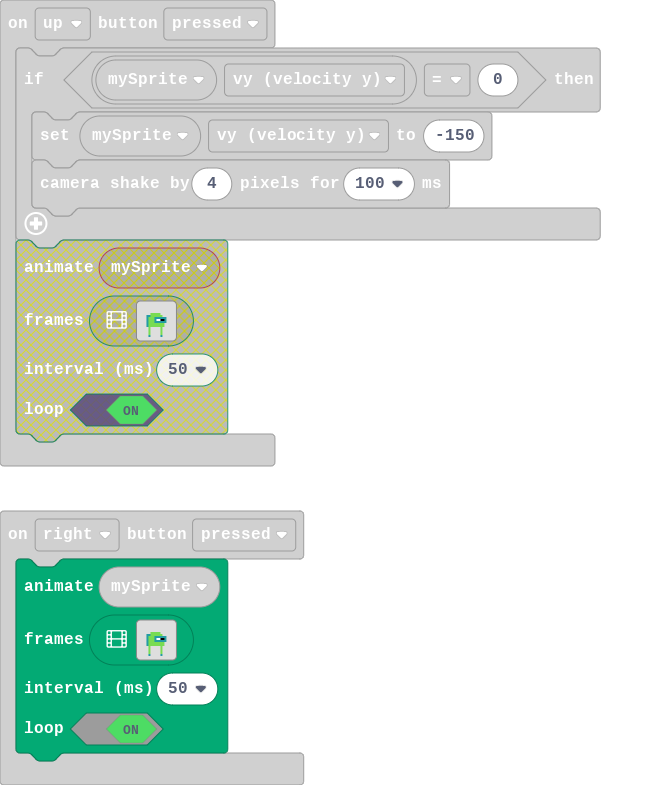
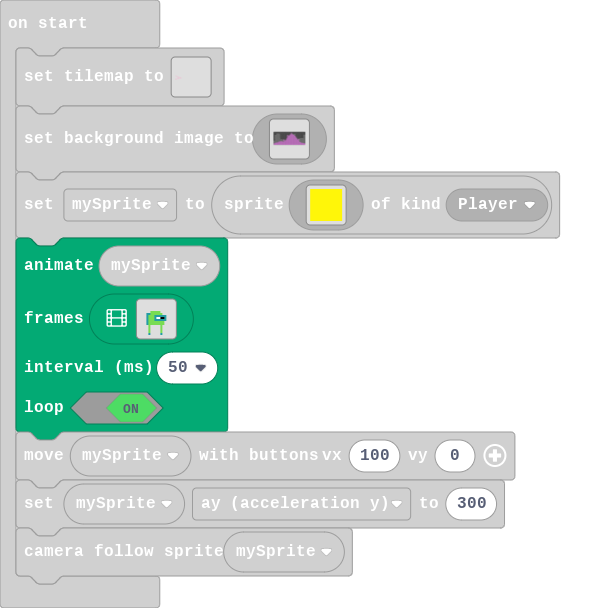
made rainbow spaceship

diff --git a/images.g.ts b/images.g.ts
@@ -410,6 +410,73 @@ f5555555555555555555555555555555555555555555555555555555555555555555555555555555
 222222222222222222222222222222222222222222222222222222222222222224444444444444444444444444444444444444444444444444444444444444444444444444444444444444444444444444444222222222222222222222222222222222222222222222222222222222222222222222222222222222222222222222222222222222222222222222222222222222222222
 222222222222222222222222222222222222222222222222222222222222222224444444444444444444444444444444444444444444444444444444444444444444444444444444444444444444444444444222222222222222222222222222222222222222222222222222222222222222222222222222222222222222222222222222222222222222222222222222222222222222
 `;
+            case "image4":
+            case "myImage0":return img`
+........................1111111111111111........................
+.......1...............188888811188888881.......................
+......191.............18888888111888888881......................
+.....19991...........1888888881118888888881.....................
+.....19191...........1888888881118888888881.....................
+.....17171...........1888888881118888888881.....................
+....1771771..........1888888881118888888881.....................
+....1711171..........1888888881118888888881.....................
+....1111111..........1888888881118888888881.....................
+....1711171..........1888888881118888888881.....................
+...115111511.........1888888881118888888881.....................
+..11155155111........1888888881118888888881.....................
+.1151151511511.......1888888881118888888881.....................
+.1121121211211.......1888888881118888888881.....................
+.1221122211221.......1888899991118888888881.....................
+.1221112111221.......1899999991118888888881.....................
+.....................1999999991119888888881.....................
+.................111199999999911199888888881111.................
+................19999999999999111999888888888991................
+................19999999999999111999998888899991................
+................19999999999999111999999999999991................
+................19999999999999111999999999999991................
+................19999999111111111111111999999991................
+................19999999111111111111111999999991................
+................19999999111111111111111999999991................
+................19999999111999999999111999999991................
+..............119999999911199999999911199999999911..............
+..............111111111111199999999911111111111111..............
+..............111111111111177799999911111111111111..............
+..............111111111111177777999911111111111111..............
+..............196677777711177777799911199999999991..............
+..............166677777711177777779911199999999771..............
+..............166677777711111111111111199999997771..............
+.............16666777771111111111111111199997777771.............
+.............16666677711111111111111111117777777771.............
+.............16666666111117771111177711111777777771.............
+.............16666661111177771111177771111177777771.............
+.............16666661111777771111177777111177777771.............
+...........111111111111677777111117777771117111111111...........
+.........1155555555511666777711111777777771155555555511.........
+.........1555555555551666777711111777777771555555555551.........
+.........1555555511111666677711111777777771511115555551.........
+.........1555551114441666677711111777777771114411115551.........
+.........1155511444441666667711111777777771444444411551.........
+........141111444444441666667111117777777144444444441111........
+........144444444444441666667111117777777144444444444441........
+........144444444444441666666111117777777144444444444441........
+........144444444444441666666111116666666144444444444441........
+........144444444444441666666111116666666144444444444441........
+.......14444444444444441666661111166666614444444444444441.......
+.......14444444444444441166661111166666114444444444444441.......
+.......14444444444444441.11111111111111.11111444444444441.......
+.......14444444444444441................11221144444444441.......
+.......14411144444444441................12222114444444441.......
+.......11122114444444441................12222211444411111.......
+.......12222211144444441................12222221114112221.......
+.......12222222111444411................12222222211122221.......
+.......12222222221111111................12222222222222221.......
+.......12222222222222221................12222222222222221.......
+.......12222222222222221................12222222222222221.......
+.......12222222222222221................12222222222222221.......
+.......12222222222222221................12222222222222221.......
+.......12222222222222221................12222222222222221.......
+.......12222222222222221................12222222222222221.......
+`;
         }
         return null;
     })

diff --git a/main.ts b/main.ts
@@ -46,7 +46,7 @@ mySprite = sprites.create(img`
     `, SpriteKind.Player)
 animation.runImageAnimation(
 mySprite,
-assets.animation`chrJR_exe`,
+assets.animation`chrR_exe`,
 50,
 true
 )
